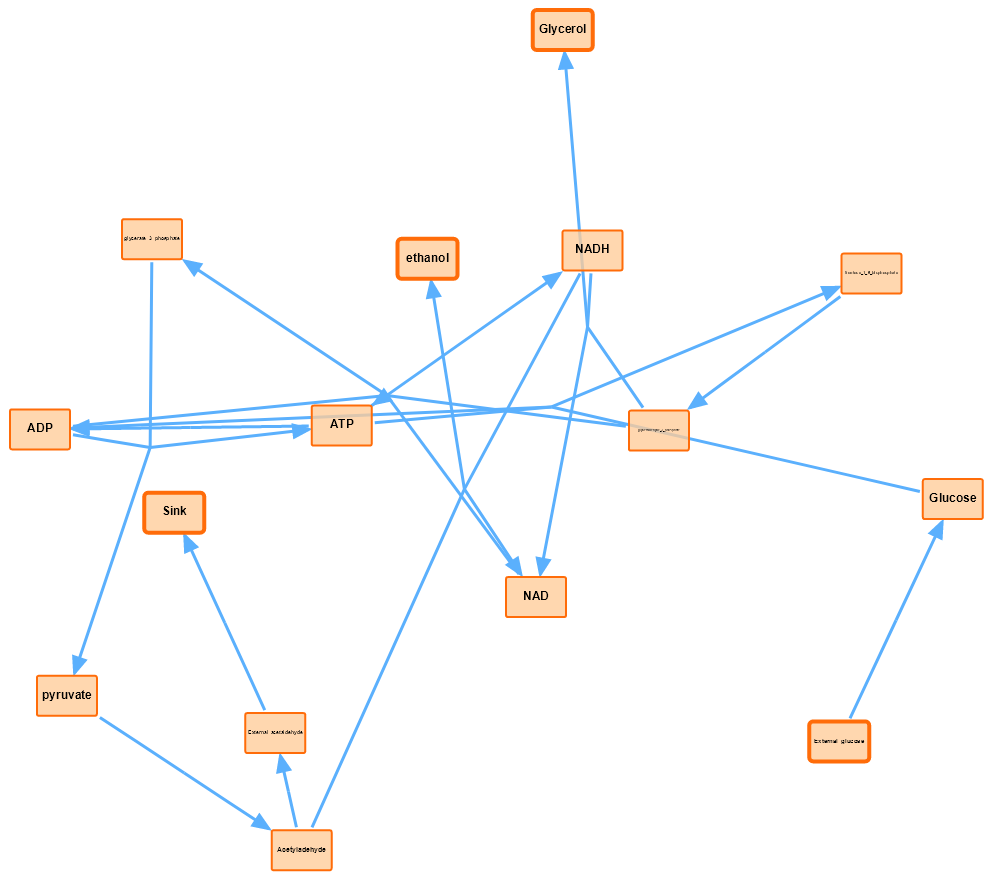
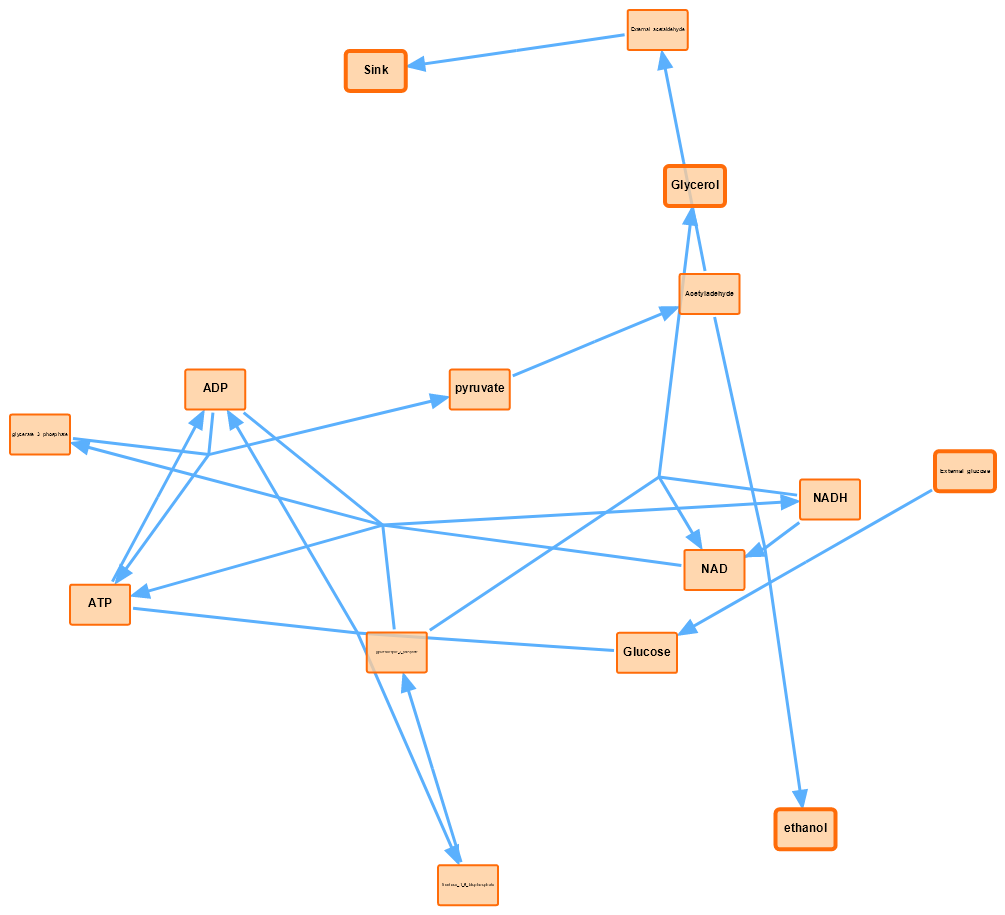
autolayout_graphviz_example

diff --git a/SBMLDiagrams/processSBML.py b/SBMLDiagrams/processSBML.py
@@ -6347,7 +6347,7 @@ class load:
         return json.dumps(self.color_style.__dict__)
 
 
-    def autolayout(self, layout="spring", scale=200, k=1, iterations=100):
+    def autolayout(self, layout="spring", scale=200., k=1., iterations=100, graphvizProgram = "dot"):
 
         """
         Autolayout the node positions using networkX library.
@@ -6362,6 +6362,8 @@ class load:
         
             circular: positioning nodes on a circle;
 
+            graphviz: positioning the nodes using Graphiz.
+
         scale (applies to "spring", "spectral", "circular"): float-Scale factor for positions. 
         The nodes are positioned in a box of size scale in each dim centered at center.
         
@@ -6370,7 +6372,39 @@ class load:
 
         iterations (applies to "spring"): int-maximum number of iterations to use during the calculation.             
         
+        graphvizProgram (applies to "graphviz"): str-name of Graphviz layout program.
+            
+            dot (default): "hierarchical" or layered drawings of directed graphs. This is the default tool 
+            to use if edges have directionality.
+            
+            neato: "spring model'' layouts. This is the default tool to use if the graph is not 
+            too large (about 100 nodes) and you don't know anything else about it. Neato attempts 
+            to minimize a global energy function, which is equivalent to statistical 
+            multi-dimensional scaling.
+            
+            fdp: "spring model'' layouts similar to those of neato, but does this by reducing 
+            forces rather than working with energy.
+            
+            sfdp: multiscale version of fdp for the layout of large graphs.
+            
+            twopi: radial layouts, after Graham Wills 97. Nodes are placed on concentric circles 
+            depending their distance from a given root node.
+            
+            circo: circular layout, after Six and Tollis 99, Kauffman and Wiese 02. This is 
+            suitable for certain diagrams of multiple cyclic structures, such as certain 
+            telecommunications networks.
+
         """
+        #warnings:
+        if type(float(scale)) is not float or scale <= 0:
+            raise Exception("Not valid scale")
+
+        if type(float(k)) is not float or k <= 0:
+            raise Exception("Not valid k")
+
+        if type(iterations) is not int or iterations <= 0:
+            raise Exception("Not valid iterations")
+
         if not self.hasLayout():
             sbmlStr = self.export()
             v_info = visualizeSBML._draw(sbmlStr,showImage=False,newStyle=self.color_style)
@@ -6406,17 +6440,19 @@ class load:
                 pos = nx.random_layout(graph, center=center)
             elif layout == "circular":
                 pos = nx.circular_layout(graph, scale=scale, center=center)
-                
-            #(comming soon) graphviz: positioning the nodes using Graphiz. 
-            # elif layout == "graphviz":
-            #     pos = nx.nx_agraph.graphviz_layout(graph)
+                 
+            elif layout == "graphviz":
+                pos = nx.nx_agraph.graphviz_layout(graph, prog=graphvizProgram)
             else:
                 raise Exception("no such layout")
 
             for n, p in pos.items():
                 if layout == "random":
                     p *= scale
-                p = p.tolist()
+                if type(p) is tuple:
+                    p = list(p)
+                else:
+                    p = p.tolist()
                 self.setNodeAndTextPosition(n, p)
 
             for id in reaction_ids:
@@ -6631,7 +6667,7 @@ if __name__ == '__main__':
     #filename = "test_genGlyph.xml"
 
     #bioinformatics
-    #filename = "test_suite/BIOMD0000000005/BIOMD0000000005.xml"
+    filename = "test_suite/BIOMD0000000005/BIOMD0000000005.xml"
     #filename = "test_suite/BIOMD0000000005/BIOMD0000000005_layout_render.xml"
     #filename = "test_suite/pdmap-nulceoid/pdmap-nucleoid.xml"
     
@@ -6658,7 +6694,7 @@ if __name__ == '__main__':
 
     #filename = "Bart/bart_arccenter.xml"
     #filename = "Bart/bart_spRefBezier.xml"
-    # filename = "Bart/bart2.xml"
+    #filename = "Bart/bart2.xml"
     #filename = "Bart/newSBML.xml"
     #filename = "Bart/newSBML2.xml"
     #filename = "Bart/output.xml"
@@ -6944,7 +6980,8 @@ if __name__ == '__main__':
     #   f.write(sbmlStr_layout_render)   
 
     #df.draw(reactionLineType='bezier', scale = 2.)
-    #df.autolayout(layout = 'spring')
+    #df.autolayout(layout = 'graphviz', graphvizProgram = 'dot')
+    #df.autolayout()
     #df.autolayout(scale = 400, k = 2)
 
     

diff --git a/examples/Interface_to_networkx_autolayout/example_autolayout.py b/examples/Interface_to_networkx_autolayout/example_autolayout.py
@@ -89,3 +89,6 @@ df.draw(output_fileName="spectral.png")
 
 df.autolayout(layout="spring", scale = 500, k = 2)
 df.draw(output_fileName="spring.png")
+
+df.autolayout(layout="graphviz")
+df.draw(output_fileName="graphviz.png")
